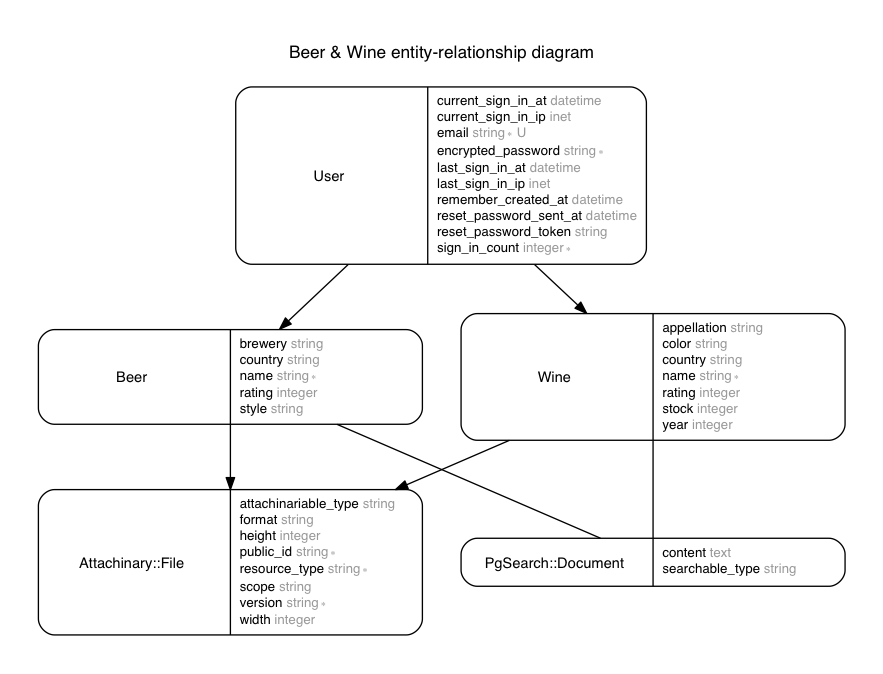
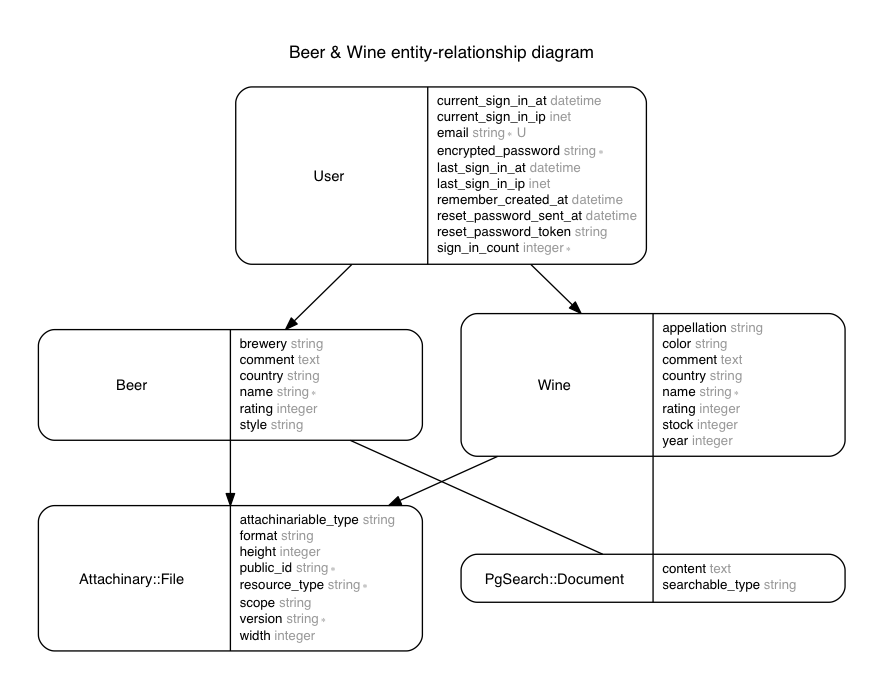
added comments to beer and wine

diff --git a/app/assets/stylesheets/application.scss b/app/assets/stylesheets/application.scss
@@ -126,8 +126,9 @@ label {
   border-radius: 0 0 2px 2px;
   box-shadow: inset 0 1px 1px rgba(0, 0, 0, 0.075);
 }
-
-
+.ui-helper-hidden-accessible {
+  display: none;
+}
 
 
 

diff --git a/db/schema.rb b/db/schema.rb
@@ -10,7 +10,7 @@
 #
 # It's strongly recommended that you check this file into your version control system.
 
-ActiveRecord::Schema.define(version: 20170903144553) do
+ActiveRecord::Schema.define(version: 20170909081911) do
 
   # These are extensions that must be enabled in order to support this database
   enable_extension "plpgsql"
@@ -39,6 +39,7 @@ ActiveRecord::Schema.define(version: 20170903144553) do
     t.datetime "updated_at", null: false
     t.integer  "rating"
     t.integer  "user_id"
+    t.text     "comment"
     t.index ["user_id"], name: "index_beers_on_user_id", using: :btree
   end
 
@@ -79,6 +80,7 @@ ActiveRecord::Schema.define(version: 20170903144553) do
     t.datetime "created_at",  null: false
     t.datetime "updated_at",  null: false
     t.integer  "user_id"
+    t.text     "comment"
     t.index ["user_id"], name: "index_wines_on_user_id", using: :btree
   end
 

diff --git a/app/controllers/wines_controller.rb b/app/controllers/wines_controller.rb
@@ -49,6 +49,6 @@ class WinesController < ApplicationController
   end
 
   def wine_params
-    params.require(:wine).permit(:name, :color, :appellation, :country, :photo, :rating)
+    params.require(:wine).permit(:name, :color, :appellation, :country, :photo, :rating, :comment)
   end
 end

diff --git a/app/controllers/beers_controller.rb b/app/controllers/beers_controller.rb
@@ -40,6 +40,6 @@ class BeersController < ApplicationController
   end
 
   def beer_params
-    params.require(:beer).permit(:name, :brewery, :style, :country, :photo, :rating)
+    params.require(:beer).permit(:name, :brewery, :style, :country, :photo, :rating, :comment)
   end
 end

diff --git a/db/migrate/20170909081410_add_comment_to_wines.rb b/db/migrate/20170909081410_add_comment_to_wines.rb
@@ -1,0 +1,5 @@
+class AddCommentToWines < ActiveRecord::Migration[5.0]
+  def change
+    add_column :wines, :comment, :text
+  end
+end

diff --git a/db/migrate/20170909081911_add_comment_to_beers.rb b/db/migrate/20170909081911_add_comment_to_beers.rb
@@ -1,0 +1,5 @@
+class AddCommentToBeers < ActiveRecord::Migration[5.0]
+  def change
+    add_column :beers, :comment, :text
+  end
+end
